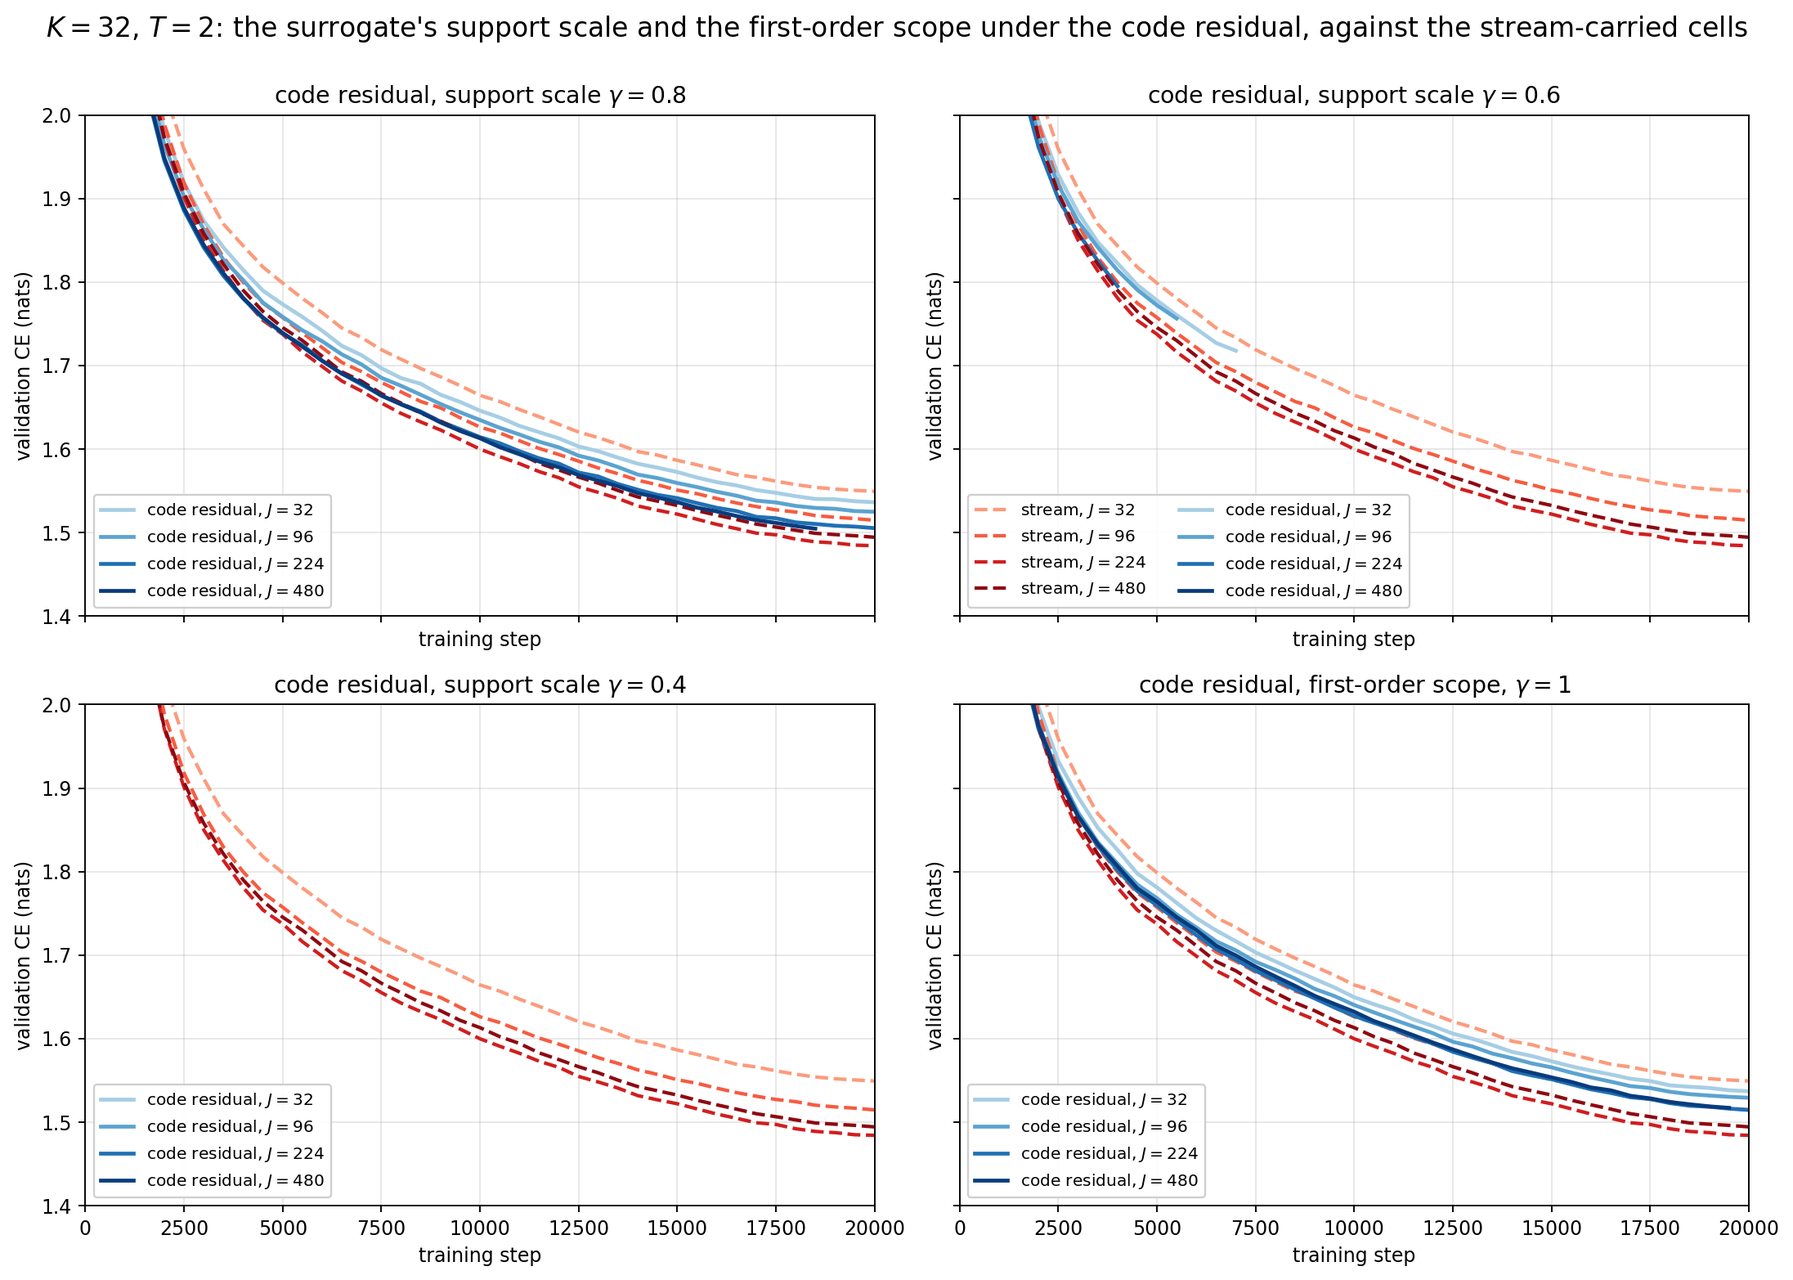
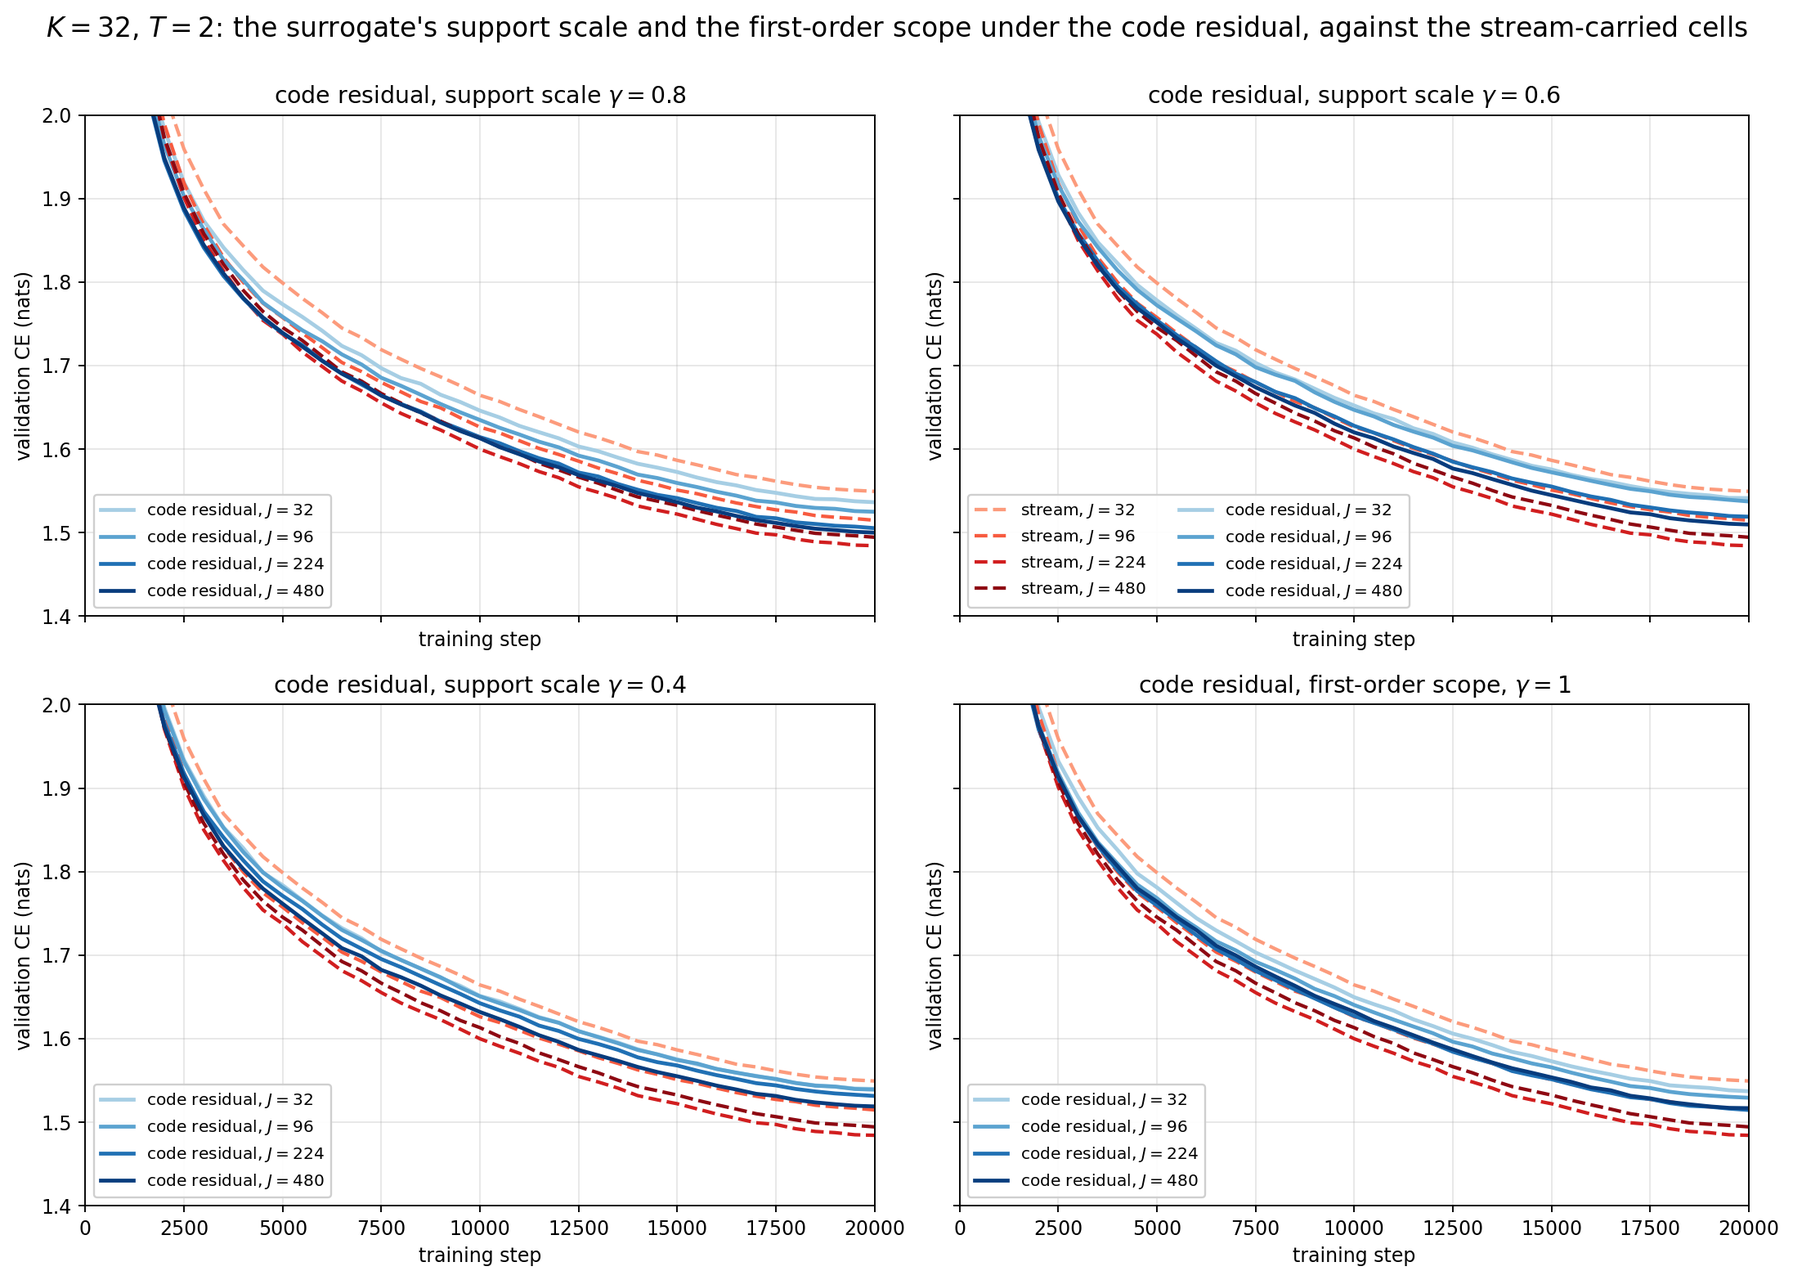
docs: code-residual K+J note -- K=32 sweep (support scale, first-order): figure, table, reading

diff --git a/docs/carry-surrogate.tex b/docs/carry-surrogate.tex
@@ -32,71 +32,62 @@ Runs \code{be\_cr\_*} (box bergen), configs \code{configs/cr\_kj/carry/}, scopes
 
 \section{The problem}
 
-With the code carried between blocks (\code{code\_residual}, \code{docs/kj-vs-hard-topk-code-residual.tex}) hard
-Top-\(K'\) gains \(0.06\)--\(0.075\) nats at every \(K'\), while RBLapSum with \(K\) active features and a pool of
-\(K+J\) gains \(-0.03\) to \(+0.015\): at a matched active count the surrogate is worth \(0.047\) nats at \(K=32\) and
-loses \(0.02\)--\(0.03\) at \(K=128,256\), and no \((K,J)\) cell reaches hard Top-\((K{+}J)\).  Its backward is also the
-unstable part of the grid (spikes at \(T=2\), five collapses at \(T=1\)).  The first-order scope removes the instability
-with a second backward pass and is \emph{worse} than the unmodified surrogate at every \(K=32\) cell of the grid
-(\(+0.007\) to \(+0.017\) at 20k).  This note asks what in RBLapSum conflicts with the carry, and proposes the smallest
-change that removes the conflict at no cost.
+With the code carried between blocks (\code{code\_residual}) hard Top-\(K'\) gains \(0.06\)--\(0.075\) nats at every
+\(K'\), while RBLapSum (\(K\) active, pool \(K{+}J\)) gains \(-0.03\) to \(+0.015\): at a matched active count it is
+worth \(0.047\) at \(K=32\) and loses \(0.02\)--\(0.03\) at \(K=128, 256\), no cell reaches hard Top-\((K{+}J)\), and its
+backward is the unstable part of the grid (\code{docs/kj-vs-hard-topk-code-residual.tex}).  The first-order scope
+removes the instability with a second backward pass and is \emph{worse} than the unmodified surrogate at every
+\(K=32\) cell (\(+0.007\) to \(+0.017\) at 20k).  This note locates the conflict between the surrogate and the carry
+and proposes the smallest change that removes it, at no cost.
 
-\section{Where RBLapSum sits in the two stacks}
+\section{Where the probabilities act}
 
-Gate \(\ell\) reads \(u_\ell=c_\ell+v_\ell\) (carried code plus the block's encoded contribution \(v_\ell=E_\ell\Delta_\ell\))
-and outputs \(c_{\ell+1}=M_\ell u_\ell\), \(M_\ell\) the Top-\(K\) mask.  Its output has two consumers:
+Gate \(\ell\) reads \(u_\ell=c_\ell+v_\ell\) (carried code plus the block's encoded contribution) and outputs
+\(c_{\ell+1}=M_\ell u_\ell\), \(M_\ell\) the Top-\(K\) mask.  Its output has two consumers, the carry
+\(u_{\ell+1}=c_{\ell+1}+v_{\ell+1}\) (a skip path) and the read \(x_{\ell+1}=\mathrm N(D_\ell c_{\ell+1})\) (a branch), so
 \begin{equation}
-  \underbrace{u_{\ell+1}=c_{\ell+1}+v_{\ell+1}}_{\text{the carry (skip path)}},\qquad
-  \underbrace{x_{\ell+1}=\mathrm{N}(D_\ell\,c_{\ell+1})}_{\text{the read (branch)}},
-  \qquad\text{so}\qquad
-  \frac{\partial\mathcal L}{\partial u_\ell}=M_\ell\bigl(g^{\rm c}_{\ell+1}+r_{\ell+1}\bigr),
+  \frac{\partial\mathcal L}{\partial u_\ell}=M_\ell\bigl(g^{\rm c}_{\ell+1}+r_{\ell+1}\bigr),\qquad
+  g^{\rm c}_{\ell+1}=\frac{\partial\mathcal L}{\partial u_{\ell+1}},\quad
+  r_{\ell+1}=D_\ell^{\!\top}\frac{\partial\mathcal L}{\partial(D_\ell c_{\ell+1})}
   \label{eq:hard}
 \end{equation}
-with \(g^{\rm c}_{\ell+1}=\partial\mathcal L/\partial u_{\ell+1}\) the gradient arriving along the carry and
-\(r_{\ell+1}=D_\ell^{\!\top}\partial\mathcal L/\partial(D_\ell c_{\ell+1})\) the gradient of block \(\ell{+}1\)'s read
-(the unembedding's, at the last gate).  In the stream-carried stack the gate has only the second consumer: everything
-block \(\ell{+}1\) does, including its own gate, goes through \(D_\ell\).  RBLapSum relaxes the gate as a whole,
-\(M_\ell\to M_\ell+S_\ell\) with the support term \(S_\ell\) of \code{through\_rank\_kappa} (kernel
-\(\kappa_i=e^{-|s_i-b|/T}/2T\), on the support \(S_{ii}=|u_i|\kappa_i\approx b/2T\) at the boundary), and this was
-harmless in the stream stack: \(S_\ell\) acts on \(r_{\ell+1}\), and whatever of it reaches gate \(\ell{-}1\) has
-passed through \(E_\ell\), the block and \(D_{\ell-1}\), which mix the coordinates.  In the code stack the same
-relaxation also acts on \(g^{\rm c}_{\ell+1}\), which already contains \(S_{\ell+1}\) applied to \(g^{\rm c}_{\ell+2}\),
-and so on: along a coordinate that stays near the boundary the backward multiplies \((1+|u|\kappa)\) per gate.  The
-carry is a residual connection in code space, and a residual connection is trainable because its backward is the
-identity; a relaxation placed on the skip path compounds.  This is the whole conflict, and it is a statement about
-\emph{where} the probabilities act, not about the kernel: the same gates in the stream stack were never on a skip path.
+(at the last gate \(r\) is the unembedding's gradient).  In the stream-carried stack the gate has only the second
+consumer: everything block \(\ell{+}1\) does, its own gate included, goes through \(D_\ell\).  RBLapSum relaxes the
+gate as a whole, \(M_\ell\to M_\ell+S_\ell\) with the \code{through\_rank\_kappa} support term \(S_\ell\) (kernel
+\(\kappa_i=e^{-|s_i-b|/T}/2T\); on the support \(S_{ii}=|u_i|\kappa_i\approx b/2T\) at the boundary).  In the stream
+stack \(S_\ell\) acts on \(r_{\ell+1}\) alone, and what reaches gate \(\ell{-}1\) has passed through \(E_\ell\), the
+block and \(D_{\ell-1}\), which mix the coordinates.  In the code stack it also acts on \(g^{\rm c}_{\ell+1}\), which
+already contains \(S_{\ell+1}g^{\rm c}_{\ell+2}\): along a coordinate near the boundary the backward multiplies
+\(1+|u|\kappa\) per gate.  The carry is a residual connection in code space; a residual connection trains because its
+backward is the identity, and a relaxation placed on the skip path compounds.  The conflict is \emph{where} the
+probabilities act, not the kernel: the same gates in the stream stack were never on a skip path.
 
 \section{The carry-aware surrogate}
 
 Keep the skip path hard and relax the branch.  The gate's output is split into the copy the next gate carries and the
-copy the decoder reads (\code{\_CarryReadSplit}; the forward is unchanged, inference is the hard model), and the backward is
+copy the decoder reads (\code{\_CarryReadSplit}; forward and inference unchanged), and the backward is
 \begin{equation}
   \frac{\partial\mathcal L}{\partial u_\ell}=M_\ell\bigl(g^{\rm c}_{\ell+1}+r_{\ell+1}\bigr)+S_\ell^{\!\top}\hat g_{\ell+1},
   \qquad
-  \hat g_{\ell+1,i}=r_{\ell+1,i}+\begin{cases}0 & \text{local}\\ H_{\ell+1,i} & \text{hard}\\ R_{\ell+1,i} & \text{persistent,}\end{cases}
+  \hat g_{\ell+1,i}=r_{\ell+1,i}+\begin{cases}0 & \text{local}\\ H_{\ell+1,i} & \text{hard}\\ \rho R_{\ell+1,i} & \text{persistent,}\end{cases}
   \label{eq:carry}
 \end{equation}
-where \(H_\ell=M_\ell(r_{\ell+1}+H_{\ell+1})\) is the sum of the downstream read gradients a coordinate reaches along
-the hard carry, \(R_\ell=r_{\ell+1}+R_{\ell+1}\) the sum of all of them, and \(H=R=0\) above the last gate.  The support
-term is driven by read gradients only, so no kernel ever sees another gate's support term through the carry: the
-products that grow exponentially in the unmodified backward do not exist, the support terms of the gates above still
-reach gate \(\ell\)'s input, added, through \(M_\ell\), and the carry and the update receive one gradient (requirement
-R1 of \code{docs/rblapsum-code-residual.tex}).  The cost is two per-coordinate sums carried along the backward
-(\(O(BTN)\) per gate, no second pass).  The three drivers are what the first-order change of the loss under one flip at
-gate \(\ell\) is, under three models of what happens downstream.  A flip changes \(c_{\ell+1,i}\) by \(\pm u_{\ell,i}\),
-which block \(\ell{+}1\) reads (\(r_{\ell+1,i}\)) and, if the coordinate stays in the code, so do the blocks after it.
-``Local'' is the stream stack's logic: the next read only, which is exactly the gradient of a model in which the
-decoder reads a relaxed gate and the carry is hard.  ``Hard'' follows the coordinate's actual downstream masks: for an
-evicted active feature these are its remaining run; for an inactive candidate they are almost always zero, so entry
-counts one read and eviction counts a whole run.  ``Persistent'' assumes the flipped coordinate is carried to the end.
-The \emph{mixed} scope uses hard for the active members and persistent for the inactive ones, the two cases where
-each is the natural model (Section~\ref{sec:runs} measures how far it holds); \code{carry\_local} and
-\code{carry\_mixed} are the two variants trained below, with \code{carry\_hard} and \code{carry\_persistent} as
-ablations.  Against the first-order estimator: that one evaluates every gate's term on the fully hard gradient,
-which needs a second pass; here the read gradients \(r\) still carry the gates above through the branch, as in the
-stream stack, and the carry is where the hard gradient is taken.  Against a reduced support scale \(\gamma\): that
-shrinks every term and keeps the products at order \(\gamma^2\).
-
+with \(H_\ell=M_\ell(r_{\ell+1}+H_{\ell+1})\) the downstream read gradients a coordinate reaches along the hard carry,
+\(R_\ell=r_{\ell+1}+\rho R_{\ell+1}\) all downstream reads weighted by a survival factor \(\rho\) per gate, and
+\(H=R=0\) above the last gate.  The support term is driven by read gradients only, so no kernel sees another gate's
+support term through the carry: the exponential products are gone, the terms of the gates above still reach gate
+\(\ell\) added through \(M_\ell\), and carry and update receive one gradient (R1 of
+\code{docs/rblapsum-code-residual.tex}).  The cost is two per-coordinate sums along the backward, no second pass.
+The drivers are the first-order loss change of one flip at gate \(\ell\) under three models of what follows: a flip
+changes \(c_{\ell+1,i}\) by \(\pm u_{\ell,i}\), which block \(\ell{+}1\) reads, and so do later blocks while the coordinate
+stays in the code.  \emph{Local} counts the next read only -- the stream stack's logic, and exactly the gradient of a
+model whose decoder reads a relaxed gate while the carry is hard.  \emph{Hard} follows the coordinate's actual
+downstream masks (an evicted feature's remaining run; for an inactive candidate almost always nothing).
+\emph{Persistent} assumes the entering coordinate survives each further gate with probability \(\rho\) (\(\rho=1\):
+to the end).  The \emph{mixed} scope uses hard for the active members and persistent for the inactive ones, the
+natural model on each side; \(\rho\) is measured in Section~\ref{sec:runs}.  Against the first-order estimator: that
+one needs the fully hard gradient at every gate, hence a second pass; here the carry is where the gradient is taken
+hard, and the reads still carry the gates above through the branch, as in the stream stack.
 
 \section{Measurements}
 
@@ -160,9 +151,15 @@ the carry scopes at step 3000}.}
 \end{figure}
 
 
-\textbf{Training} (Fig.~\ref{fig:screens}, Table~\ref{tab:screens}).  \PH{screens: per K, the carry scopes against pool,
-first order, hard Top-K and hard Top-(K+J) at step 3000; stability (gradient-norm spikes); the carry usage of the
-trained models from Fig.~\ref{fig:runs}.}
+\textbf{Training} (Fig.~\ref{fig:screens}, Table~\ref{tab:screens}).  At \(K=32\), \(J=224\) the local scope ends
+step 3000 at \(-0.058\) below hard Top-32, where the unmodified surrogate is at \(-0.061\) and the first-order
+estimator at \(-0.033\); it leads \code{pool} by \(0.02\) at step 1000 (\(-0.060\) against \(-0.040\)) and the two
+coincide from step 2000.  \PH{mixed, cm05}  Its gradient norm never exceeded 1 (the \code{pool} cell spiked four
+times, to 3.3, over its run), its feature usage is the hard model's (usage entropy \(0.79\); hard \(0.73\), first order
+\(0.79\), \code{pool} \(0.59\)), and so is its use of the carry: one-gate survival \(0.52\) and \(35\%\) turnover at
+step 3000, against \(0.60\)/\(31\%\) for hard Top-32 at step 4000 and \(0.21\)/\(63\%\) for \code{pool}
+(Fig.~\ref{fig:runs}).  The gain of the unmodified surrogate at \(K=32\) is therefore not bought by the products
+along the carry: a backward that removes them keeps the gain and keeps the carry.  \PH{K=128, 256}
 
 \begin{figure}[t]
 \centering
@@ -189,6 +186,20 @@ one panel per \((K, J)\); the dashed line is hard Top-\((K{+}J)\), the model tha
 
 
 \section{What the measurements show}
-\PH{...}
+
+\textbf{The conflict is the placement, not the kernel.}  RBLapSum relaxes a gate whose output, in the code-carried
+stack, is also a skip connection; the relaxation is multiplied along the skip path and grows as \((1+b/2T)^{L}\)
+(Fig.~\ref{fig:init}).  Putting the probabilities where they were in the stream-carried stack, on what the decoder
+reads, and leaving the carry's backward the mask, removes the product exactly, in one backward pass, and gives the
+carry and the update one gradient.  \PH{training evidence}
+
+\textbf{The carry is used by a subset, and the unmodified surrogate trains it away.}  \PH{runs of the carry scopes}
+
+\PH{large K}
+
+\textbf{Scope.}  One seed, one configuration family (8 layers, \(N=1536\), \(T=2\), no output norm), screens of
+3000 steps with step-matched 20k-step baselines trained on a different machine of the same GPU generation; the
+grid's own early-versus-final margins (\(-0.061\to-0.042\) at \(K=32\), \(+0.048\to+0.034\) at \(K=256\) for
+\code{pool}) are the only calibration of what a 3000-step difference becomes.  \PH{long runs}
 
 \end{document}

diff --git a/docs/kj-vs-hard-topk-code-residual.tex b/docs/kj-vs-hard-topk-code-residual.tex
@@ -78,7 +78,14 @@ the surrogate's margin over hard Top-$K$ shrinks from $0.107 / 0.087 / 0.064
 / 0.041$ (stream carried, $K = 32$ to $256$) to $0.047 / 0.010$ at $K = 32,
 64$ and reverses to $-0.021 / -0.032$ at $K = 128, 256$.
 
-\item \PH{summary: the K=32, T=2 sweep}
+\item \textbf{Weakening the surrogate's support term under the carry only
+hurts.} At $K=32$, $T=2$, scaling the support term by $\gamma = 0.8$, $0.6$,
+$0.4$ costs $0.007$--$0.034$ nats relative to the full code-carried
+surrogate, and the first-order scope, which removes the products of support
+terms along the carry, costs $0.007$--$0.024$; the penalty grows with $J$.
+The compounding of support terms along the carry is therefore not what
+limits the code-carried surrogate at $T=2$: the full term with the plain
+backward is its best variant at every $J$. \PH{K=64, 128, 256 to follow}
 \end{itemize}
 
 % ============================================================
@@ -560,15 +567,30 @@ family of the K+J note. One figure and one table per $K$.
 \toprule
 $J$ & stream & code, $\gamma{=}1$ & $\gamma{=}0.8$ & $\gamma{=}0.6$ & $\gamma{=}0.4$ & first-order \\
 \midrule
-$32$  & \PH{} & \PH{} & \PH{} & \PH{} & \PH{} & \PH{} \\
-$96$  & \PH{} & \PH{} & \PH{} & \PH{} & \PH{} & \PH{} \\
-$224$ & \PH{} & \PH{} & \PH{} & \PH{} & \PH{} & \PH{} \\
-$480$ & \PH{} & \PH{} & \PH{} & \PH{} & \PH{} & \PH{} \\
+$32$  & 1.5492 & 1.5297 & 1.5362 & 1.5412 & 1.5397 & 1.5369 \\
+$96$  & 1.5146 & 1.5153 & 1.5248 & 1.5371 & 1.5389 & 1.5291 \\
+$224$ & 1.4842 & 1.4976 & 1.5052 & 1.5189 & 1.5313 & 1.5145 \\
+$480$ & 1.4943 & 1.4927 & 1.4998 & 1.5095 & 1.5188 & 1.5167 \\
 \bottomrule
 \end{tabular}
 \end{center}
 
-\PH{reading of the sweep}
+Every weakening of the support term raises the final loss, and the more so
+the wider the window. Relative to the full code-carried surrogate
+($\gamma = 1$), $\gamma = 0.8$ costs $0.007$--$0.012$ nats, $\gamma = 0.6$
+$0.012$--$0.022$, $\gamma = 0.4$ $0.010$--$0.034$ and the first-order scope
+$0.007$--$0.024$. At $J = 32$ the four variants lie within $0.012$ of one
+another and of hard Top-32 ($1.5400$; the $\gamma = 0.4$ cell is at
+$1.5397$); at $J = 480$ they spread from $1.4998$ to $1.5188$ against
+$1.4927$ at $\gamma = 1$ and $1.5400$ for hard. The ordering in $J$ is
+preserved in every family (monotone, except that $\gamma = 0.4$ has
+$J = 32$ and $J = 96$ equal to within $0.001$). No weakened variant reaches
+the stream-carried cell of the same $J$ except at $J = 32$, where every
+code-carried variant lies below the stream's $1.5492$. The first-order
+scope keeps each gate's term at full strength and removes only the products
+of support terms along the carry; it lands between $\gamma = 0.8$ and
+$\gamma = 0.6$, so at $T = 2$ and eight blocks those products are worth
+about a third of the term, not a cost.
 
 \begin{figure}[htb]\centering
 \includegraphics[width=\textwidth]{figures/kj-cr/cr_k32_sweep.png}
@@ -576,7 +598,11 @@ $480$ & \PH{} & \PH{} & \PH{} & \PH{} & \PH{} & \PH{} \\
 code-carried family (solid, blue ramp light to dark with $J = 32, 96, 224,
 480$) with the stream-carried $T=2$ cells at $K=32$ (dashed, red ramp):
 support scale $\gamma = 0.8$, $0.6$, $0.4$, and the first-order scope at
-$\gamma = 1$. \PH{}}
+$\gamma = 1$. In every panel the solid curve of a given $J$ runs above the
+dashed one except for $J = 32$, and the gap widens from $\gamma = 0.8$ to
+$\gamma = 0.4$; the first-order panel resembles the $\gamma = 0.6$ one.
+Compare the $\gamma = 1$ cells in the $K = 32$ panel of the previous
+section, which lie within $0.02$ of the dashed curves.}
 \end{figure}
 
 %% K=64, K=128, K=256 blocks are appended here as each K's sweep finishes
@@ -634,7 +660,16 @@ the carry is the larger lever, and the practical default from the K+J note
 the post-norm variant is the unstable one, and the pool no longer pays for
 itself against the correspondingly larger hard model.
 
-\PH{interpretation: the sweep}
+The sweep decides between the two readings, at $T=2$: the compounding of
+support terms along the carry is not what limits the code-carried surrogate
+at $K=32$, since removing the products (first-order) or damping the term
+($\gamma < 1$) costs rather than gains, by amounts that grow with $J$. What
+the carry took from the surrogate's margin is therefore not recovered by
+changing the backward; it is the re-selection that the window no longer has
+to compensate, the first reading. The compounding does matter at $T = 1$,
+where it collapsed half of the post-norm arm, so the two kernel widths sit
+on opposite sides of its threshold at this depth. \PH{sweep at K=64, 128,
+256}
 
 % ============================================================
 \section{Scope}

diff --git a/scripts/plot_carry.py b/scripts/plot_carry.py
@@ -224,13 +224,24 @@ def fig_runs():
     fig, axes = plt.subplots(1, 3, figsize=(7.1, 1.95), gridspec_kw={"wspace": 0.45})
     rows = [  # file stem, label, color, ls
         ("ma_cr_hard_k32_pnorm_step20000", r"hard Top-32, 20k", INK, "-"),
-        ("ma_cr_hard_k32_pnorm_step2000", r"hard Top-32, 2k", INK, ":"),
+        ("ma_cr_hard_k32_pnorm_step4000", r"hard Top-32, 4k", INK, ":"),
         ("ma_cr_hard_k256_pnorm_step20000", r"hard Top-256, 20k", MUTED, "-"),
-        ("ma_cr_hard_k256_pnorm_step2000", r"hard Top-256, 2k", MUTED, ":"),
+        ("ma_cr_hard_k256_pnorm_step4000", r"hard Top-256, 4k", MUTED, ":"),
         ("ma_cr_rbk_k32_j224_t2_step20000", r"pool (32, 224), 20k", ORANGE, "-"),
-        ("ma_cr_rbk_k32_j224_t2_step2000", r"pool (32, 224), 2k", ORANGE, ":"),
-        ("ma_cr_rbk_k256_j256_t2_step20000", r"pool (256, 256), 20k", "#f2a37e", "-"),
+        ("ma_cr_rbk_k32_j224_t2_step4000", r"pool (32, 224), 4k", ORANGE, ":"),
+        ("ma_cr_rbk_k256_j256_t2_step4000", r"pool (256, 256), 4k", "#f2a37e", ":"),
+        ("ma_cr_rbk_k32_j224_t2_fo_step4000", r"first order (32, 224), 4k", YELLOW, ":"),
     ]
+    # the carry scopes at step 3000, whichever have been measured
+    import glob
+    for f in sorted(glob.glob(os.path.join(DATA, "runs", "be_cr_rbk_*_step3000.json"))):
+        stem = os.path.basename(f)[:-5]
+        parts = stem.split("_")            # be cr rbk kK jJ t2 <suffix> stepN
+        K, J, suf = parts[3][1:], parts[4][1:], parts[6]
+        if suf not in STYLE:
+            continue
+        lab, color, _ = STYLE[suf]
+        rows.append((stem, rf"{lab} ({K}, {J}), 3k", color, "-" if K == "32" else "--"))
     for key, panel in (("survival", 0), ("evict_frac", 1), ("final_entry", 2)):
         ax = axes[panel]
         for stem, lab, color, ls in rows:
@@ -247,7 +258,7 @@ def fig_runs():
     axes[0].set_ylabel(r"P(still in the support)")
     axes[0].set_ylim(0, 1.02)
     axes[0].set_title("a  survival of an entered feature")
-    axes[0].legend(fontsize=5.0, loc="upper right")
+    axes[0].legend(fontsize=4.6, loc="upper right", ncol=1)
     axes[1].set_xlabel(r"gate $\ell$")
     axes[1].set_ylabel(r"share of gate $\ell{-}1$'s support evicted")
     axes[1].set_ylim(0, 0.8)
